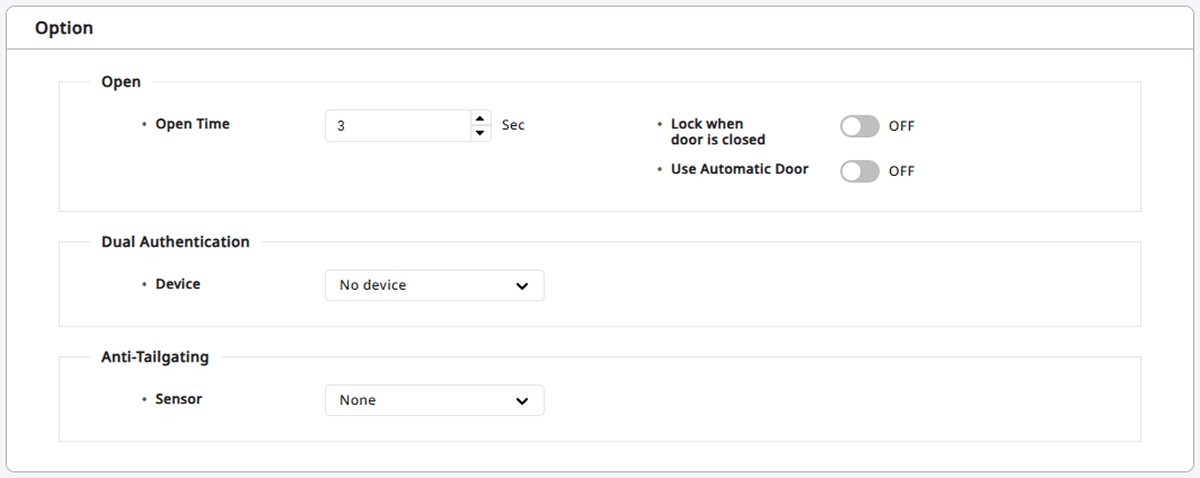
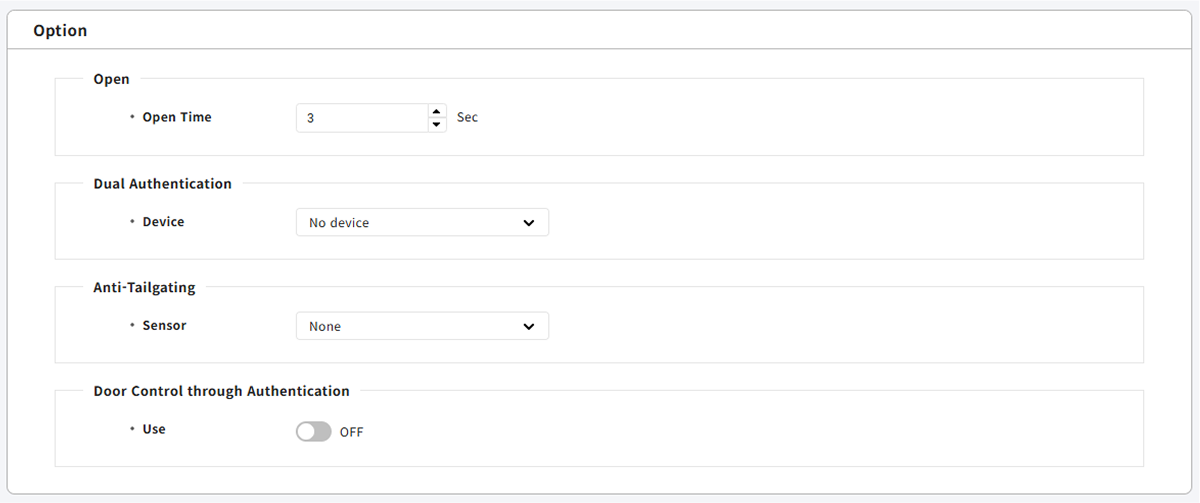
TW-586: 인증을 통한 출입문 제어 문서 추가

diff --git a/sidebars.js b/sidebars.js
@@ -826,6 +826,7 @@ function createSidebars(preview) {
                 'platform/biostar_x/settings-manage-door-group',
                 'platform/biostar_x/settings-door-add',
                 'platform/biostar_x/settings-door-edit-info',
+                'platform/biostar_x/settings-door-auth-control',
                 'platform/biostar_x/settings-door-delete'
               ]
             },
